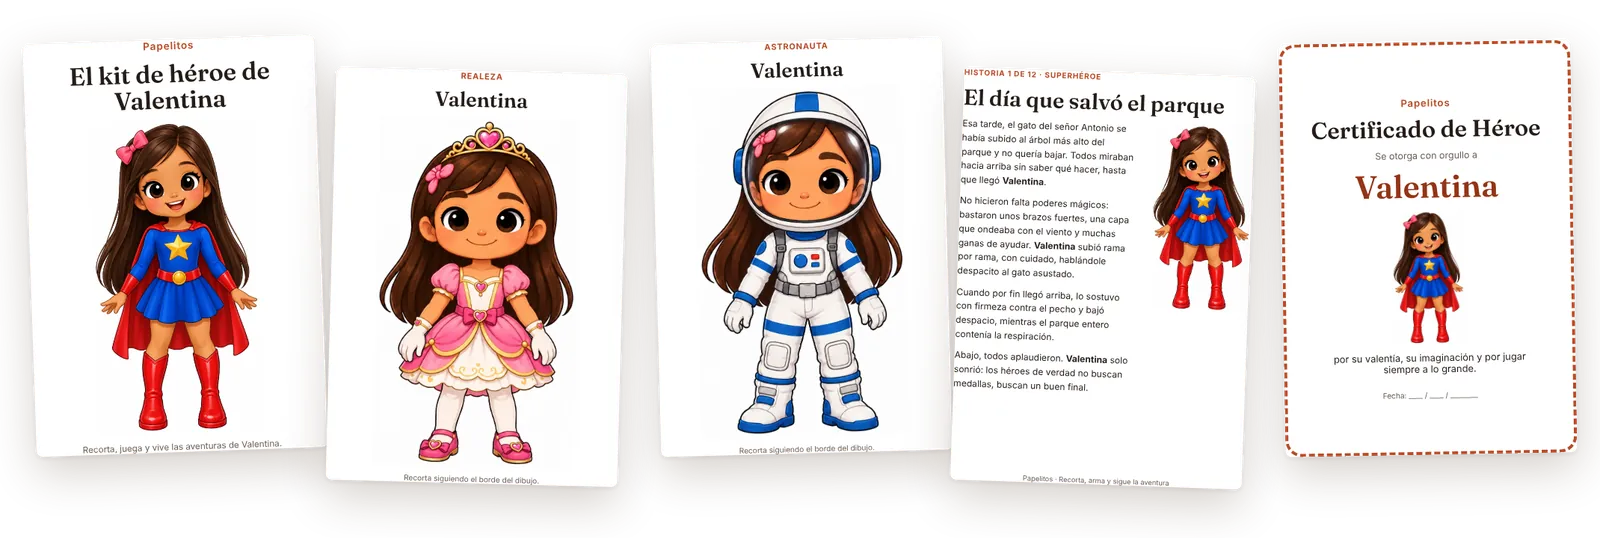
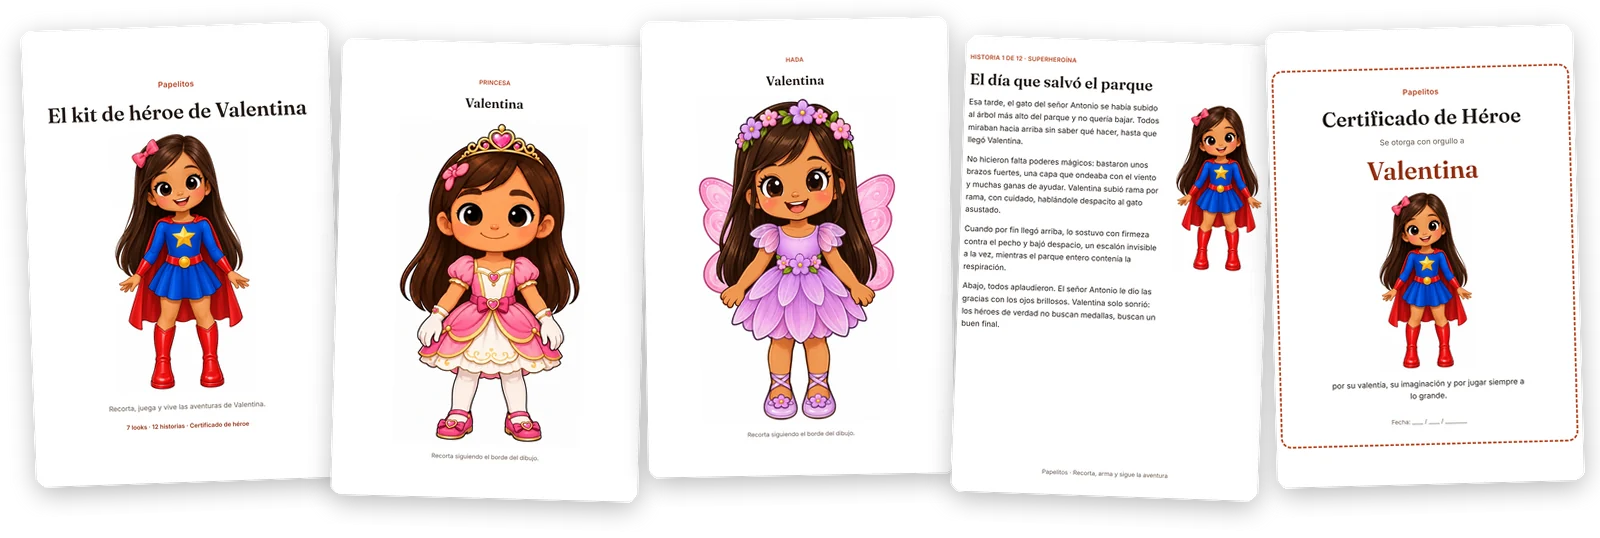
Página de ventas: demo y páginas del kit con los looks propios de cada personaje
Claude-Session: https://claude.ai/code/session_012UGPtATaRcwCVbWFX9gmJ7

diff --git a/landing/index.tsx b/landing/index.tsx
@@ -44,7 +44,7 @@ const PLANS: {
     description: "El kit completo para empezar a jugar hoy.",
     features: [
       "4 personajes para elegir",
-      "7 looks por personaje: su ropa de siempre y 6 disfraces, uno para cada aventura",
+      "7 looks por personaje, distintos en cada uno: de superhéroe a bombero, hada, buzo o doctora",
       "12 historias donde tu hijo es el protagonista, con su nombre",
       "Portada y certificado de héroe con su nombre",
       "Un kit para cada hijo, sin pagar de nuevo",
@@ -99,15 +99,14 @@ const CHARACTERS = [
   { key: "nina2", label: "Niña 2" },
 ] as const;
 
-const THEMES = [
-  { key: "ninguno", label: "Normal" },
-  { key: "superheroe", label: "Superhéroe" },
-  { key: "pirata", label: "Pirata" },
-  { key: "astronauta", label: "Astronauta" },
-  { key: "mago", label: "Mago/Bruja" },
-  { key: "guerreiro", label: "Guerrero" },
-  { key: "realeza", label: "Realeza" },
-] as const;
+// Los 7 looks de cada personaje, en el orden de las columnas de demo-sprite.webp.
+// Cada personaje tiene looks propios: no se repiten entre ellos.
+const LOOK_LABELS: string[][] = [
+  ["Normal", "Superhéroe", "Pirata", "Astronauta", "Bombero", "Explorador", "Chef"],
+  ["Normal", "Superheroína", "Maga", "Caballera", "Princesa", "Hada", "Bailarina"],
+  ["Normal", "Superhéroe", "Caballero", "Príncipe", "Dragones", "Buzo", "Futbolista"],
+  ["Normal", "Superheroína", "Capitana", "Brujita", "Princesa", "Jardinera", "Doctora"],
+];
 
 // Datos con fuente. No agregar números sin fuente verificable.
 const DATOS = [
@@ -118,7 +117,7 @@ const DATOS = [
 
 const QUE_TRAE = [
   { n: "4", t: "personajes", c: "Distintos tonos de piel y peinados, para que elija el que más se le parece." },
-  { n: "7", t: "looks", c: "Su ropa de siempre y 6 disfraces, uno para cada aventura." },
+  { n: "7", t: "looks", c: "Cada personaje tiene los suyos: superhéroe, hada, bombero, buzo, doctora y más." },
   { n: "12", t: "historias", c: "Cuentos cortos con su nombre, para leer juntos y después jugarlos." },
   { n: "1", t: "certificado", c: "De héroe y con su nombre, para colgar en la puerta de su cuarto." },
 ];
@@ -367,7 +366,8 @@ function Demo() {
   const [theme, setTheme] = useState(1);
   const name = rawName.trim();
   const shown = name || "tu hijo";
-  const themeLabel = (THEMES[theme] ?? THEMES[1]).label;
+  const labels = LOOK_LABELS[character] ?? LOOK_LABELS[0]!;
+  const themeLabel = labels[theme] ?? labels[1]!;
 
   return (
     <section id="pruebalo" className="scroll-mt-4 bg-mist py-12 sm:py-20">
@@ -430,9 +430,9 @@ function Demo() {
             <div>
               <p className="mb-3 text-base font-bold">Elige su look</p>
               <div className="flex flex-wrap gap-2">
-                {THEMES.map((t, i) => (
+                {labels.map((t, i) => (
                   <button
-                    key={t.key}
+                    key={t}
                     type="button"
                     onClick={() => setTheme(i)}
                     aria-pressed={theme === i}
@@ -440,7 +440,7 @@ function Demo() {
                       theme === i ? "border-brand bg-brand text-primary-foreground" : "border-border bg-surface hover:bg-paper"
                     }`}
                   >
-                    {t.label}
+                    {t}
                   </button>
                 ))}
               </div>
